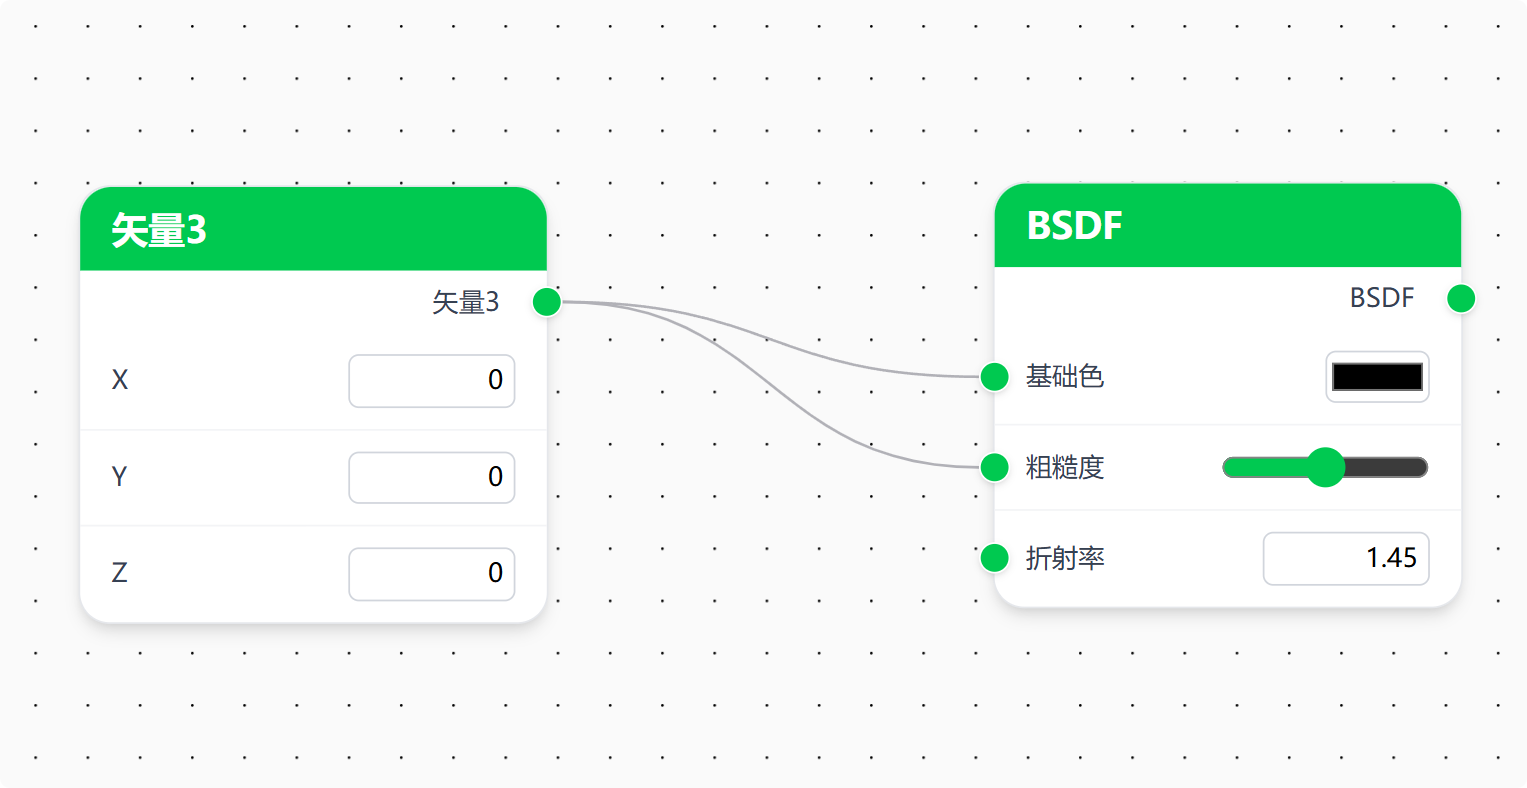
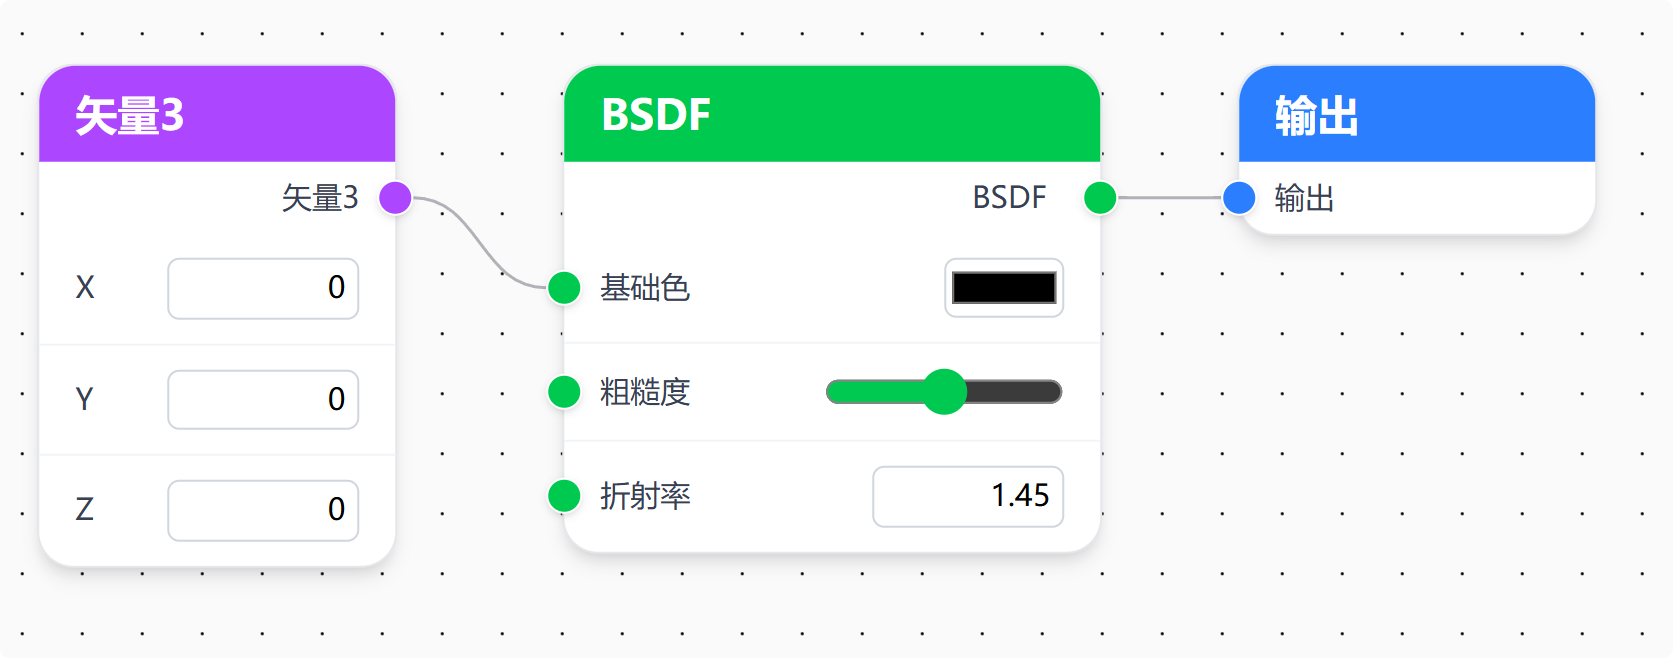
更多节点

diff --git a/src/App.jsx b/src/App.jsx
@@ -3,8 +3,9 @@ import {ReactFlow, applyNodeChanges, applyEdgeChanges, addEdge, MiniMap, Control
 import '@xyflow/react/dist/style.css';
 import TextUpdaterNode from "./Node/Test/TextUpdaterNode.tsx";
 import Vector3Node from "./Node/Input/Vector3Node.tsx";
+import OutputNode from "./Node/Output/OutputNode.tsx";
 
-
+const snapGrid = [25, 25];
 const initialNodes = [
     {
         id: 'n1',
@@ -15,10 +16,17 @@ const initialNodes = [
         id: 'n2',
         type: 'Vector3Node',
         position: { x: 0, y: 0 },
-    }]
+    },
+    {
+        id: 'n3',
+        type: 'OutputNode',
+        position: { x: 600, y: 0 },
+    }
+]
 const nodeTypes = { textUpdater: TextUpdaterNode,
-Vector3Node: Vector3Node};
-const initialEdges = [{ id: 'n2-n1', source: 'n2',targetHandle : 'i-base-color', target: 'n1' }];
+Vector3Node: Vector3Node,OutputNode : OutputNode};
+const initialEdges = [{ id: 'n2-n1', source: 'n2',targetHandle : 'i-base-color', target: 'n1' },{
+    id: 'n1-n3',source: 'n1',target: 'n3',targetHandle: 'i-output'}];
 export default function App() {
     const [nodes, setNodes] = useState(initialNodes);
     const [edges, setEdges] = useState(initialEdges);
@@ -48,7 +56,9 @@ export default function App() {
                 onEdgesChange={onEdgesChange}
                 onConnect={onConnect}
                 fitView
-                style={rfStyle}
+                style={rfStyle}//背景样式
+                snapToGrid={true}//吸附网格
+                snapGrid={snapGrid}//网格大小
             >
                 <MiniMap nodeStrokeWidth={3} zoomable pannable />
                 <Background color="black" lineWidth={0.1} variant='dots' />

diff --git a/src/Node/Input/Vector3Node.tsx b/src/Node/Input/Vector3Node.tsx
@@ -2,9 +2,9 @@
 
 export default function Vector3Node() {
     return (
-        <div className="relative w-45 bg-white border border-gray-200 rounded-xl shadow-md font-sans overflow-visible">
+        <div className="relative w-30 bg-white border border-gray-200 rounded-xl shadow-md font-sans overflow-visible">
             {/* 顶部标题栏 */}
-            <div className="bg-green-500 text-white text-sm font-semibold px-3 py-1.5 flex justify-between items-center rounded-t-xl">
+            <div className="bg-purple-500 text-white text-sm font-semibold px-3 py-1.5 flex justify-between items-center rounded-t-xl">
                 <span>Vector3</span>
             </div>
 
@@ -15,7 +15,7 @@ export default function Vector3Node() {
                     type="source"
                     id='o-vector3'
                     position={Position.Right}
-                    className="!bg-green-500 !w-3 !h-3 rounded-full absolute right-[-7px] top-1/2 shadow-sm"
+                    className="!bg-purple-500 !w-3 !h-3 rounded-full absolute right-[-7px] top-1/2 shadow-sm"
                 />
             </div>
 

diff --git a/src/Node/Output/OutputNode.tsx b/src/Node/Output/OutputNode.tsx
@@ -1,0 +1,24 @@
+import { Handle, Position } from "@xyflow/react";
+
+export default function OutputNode() {
+    return (
+        <div className="relative w-30 bg-white border border-gray-200 rounded-xl shadow-md font-sans overflow-visible">
+            {/* 顶部标题栏 */}
+            <div className="bg-blue-500 text-white text-sm font-semibold px-3 py-1.5 flex justify-between items-center rounded-t-xl">
+                <span>Output</span>
+            </div>
+
+            {/* 输出 Handle 一行 */}
+            <div className="flex mb-1 mt-1 justify-center items-center px-3 py-2 relative">
+                <span className="text-gray-700 text-[10px] absolute left-1/10" >输出</span>
+                <Handle
+                    type="target"
+                    id='i-output'
+                    position={Position.Left}
+                    className="!bg-blue-500 !w-3 !h-3 rounded-full absolute right-[-7px] top-1/2 shadow-sm"
+                />
+            </div>
+
+        </div>
+    );
+}
